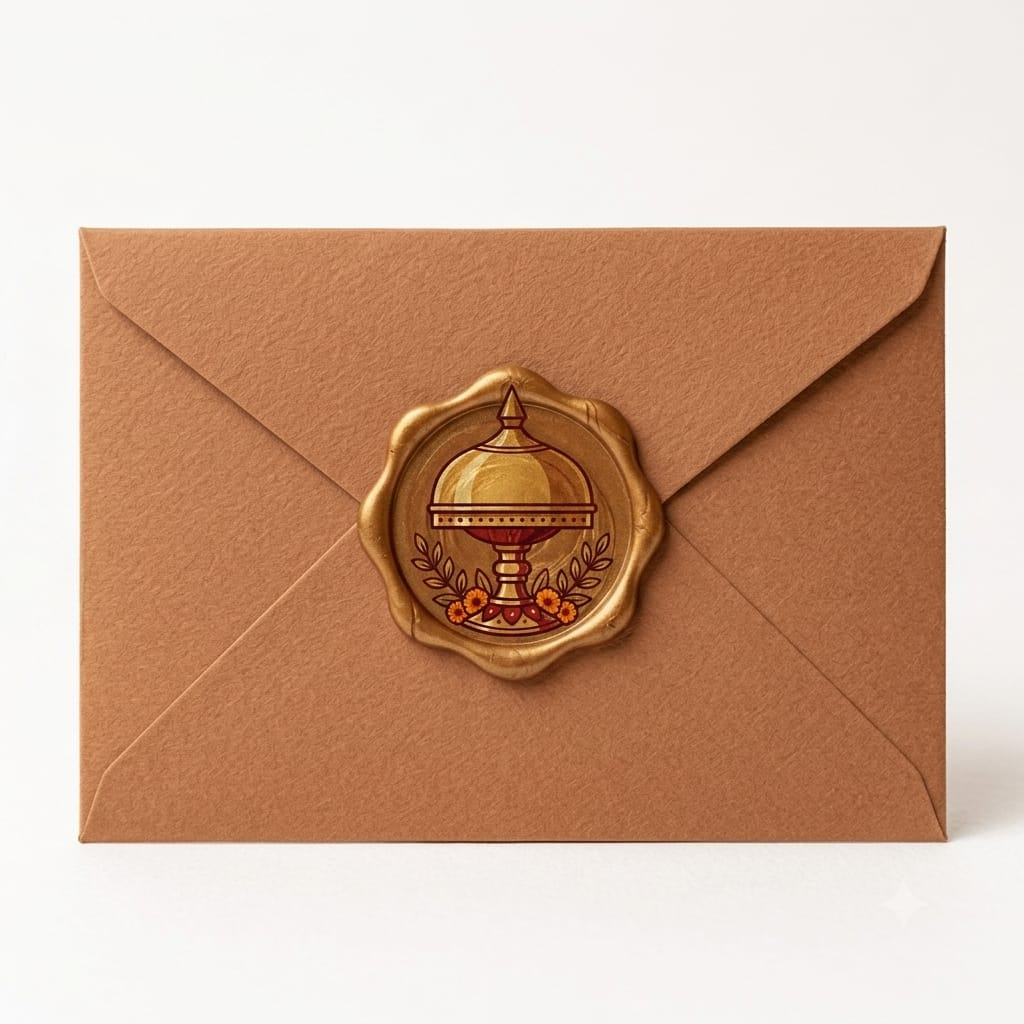
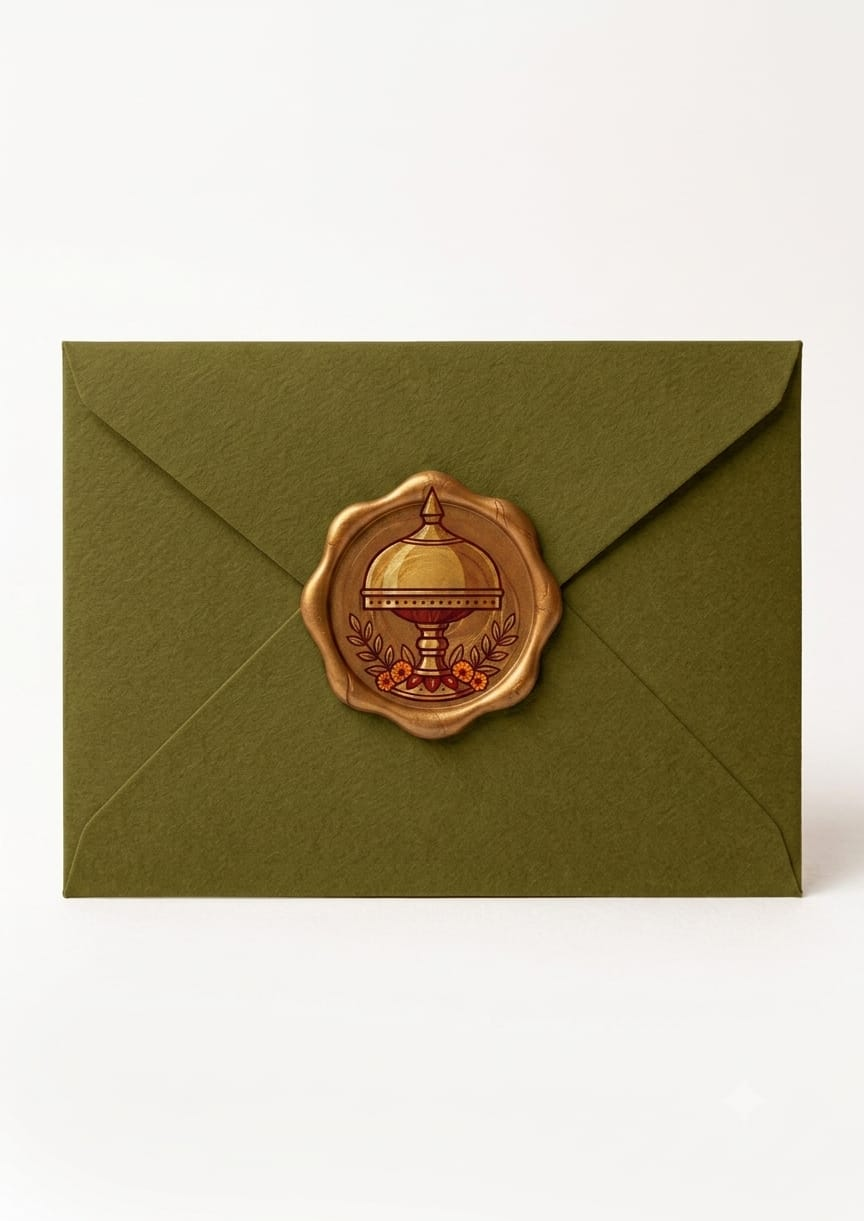
updat ephotos

diff --git a/gifts.html b/gifts.html
@@ -14,7 +14,7 @@
   </script>
   <meta name="viewport" content="width=device-width, initial-scale=1.0" />
   <title>Gifts &middot; Prerna &amp; Josh</title>
-  <meta name="description" content="Your presence is the only gift we need — details on our travel fund for anyone who'd like to contribute." />
+  <meta name="description" content="Details on our next adventure through South and Central America, for anyone who'd like to help send us on our way." />
   <link rel="preconnect" href="https://fonts.googleapis.com" />
   <link rel="preconnect" href="https://fonts.gstatic.com" crossorigin />
   <link rel="stylesheet" href="https://fonts.googleapis.com/css2?family=Cormorant+Garamond:wght@500;600;700&family=Jost:wght@400;500;600&display=swap" media="print" onload="this.media='all'" />
@@ -30,20 +30,27 @@
     <section class="page-banner">
       <div class="container">
         <span class="eyebrow">Gifts</span>
-        <h1>Your presence is present enough</h1>
-        <p>Having you with us in Kenya is all we could ask for.</p>
+        <h1>Our next adventure</h1>
       </div>
     </section>
 
-    <!-- MODULE: Travel fund -->
-    <section class="section">
+    <!-- MODULE: The story -->
+    <section class="section section--tight">
+      <div class="container">
+        <div style="max-width: 700px; margin: 0 auto;">
+          <p>At the end of 2027, we're planning to set off on a long trip through South and Central America &mdash; Argentina, Chile, Honduras, Belize, Guatemala, and wherever else the road takes us.</p>
+          <p>We don't need anything for the wedding itself, but if you'd like to give us something, help getting us a little further down that road would mean a lot.</p>
+        </div>
+      </div>
+    </section>
+
+    <!-- MODULE: Ways to contribute -->
+    <section class="section section--tight">
       <div class="container">
         <div class="card" style="max-width: 700px; margin: 0 auto;">
-          <span class="eyebrow">Travel Fund</span>
-          <h2>Still want to give something?</h2>
-          <p>[Travel fund message placeholder — e.g. If you'd like to contribute, we're putting together a fund to help toward the cost of the wedding trip rather than a traditional registry.]</p>
           <ul class="detail-list">
-            <li><span class="label">Fund link</span><span>[Travel fund / registry link placeholder]</span></li>
+            <li><span class="label">Stripe</span><span>[Stripe payment link placeholder]</span></li>
+            <li><span class="label">Bank transfer</span><span>[Bank details placeholder]</span></li>
           </ul>
         </div>
       </div>
